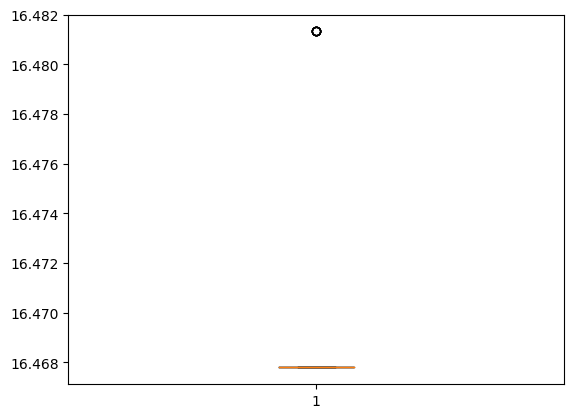
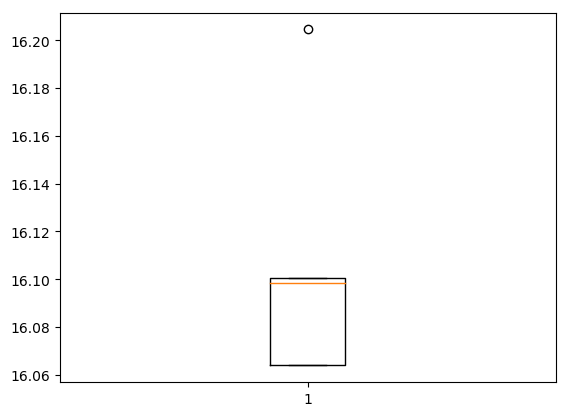
Updated Graphs folder

Changed region(s): [[0.0, 0.0, 0.9859, 0.9688]]

diff --git a/main.py b/main.py
@@ -102,4 +102,94 @@ def run_test(test_size, i):
         plt.close()
 
 
-run_test(100, 1)
+def run_all(test_size):
+    # Get the directory where the file is located
+    dir_path = os.path.dirname(os.path.realpath(__file__))
+    os.chdir(dir_path)  # Change the working directory so we can read the file
+
+    # Total number of colours and list of colours
+    ncolors, colours = read_file('colours.txt')
+
+    # List of colours for testing
+    test_colours = colours[0:test_size]
+
+    '''------------Random Permutation------------'''
+    permutation = random.sample(range(test_size), test_size)
+    print("---------------------Random Permutation {} Colors---------------------".format(test_size))
+    print("Random Permutation {}: {}".format(test_size, str(evaluate(permutation, test_colours))))
+    print("\n")
+    plot_colours(test_colours, permutation, "Random Permutation - {} Colors".format(test_size))
+
+    '''------------Greedy Constuctive Heuristic------------'''
+    greedycols = greedy(test_colours)
+    greedyPerm = getPerm(greedycols, test_colours)
+    greedyPerm = list(map(int, greedyPerm))
+    print("---------------------Greedy Constructive Heuristic {} Colors---------------------".format(test_size))
+    print("Greedy Constructive Heuristic: {}".format(str(evaluate(greedyPerm, test_colours))))
+    plot_colours(test_colours, greedyPerm, "Greedy Constructive Heuristic - {} Colors".format(test_size))
+
+    '''---------------Single Start Hill Climber---------------'''
+    hill_perm, hill_obj_val, hill_distances, hill_run_time = hill_climbing(990000, test_colours)
+    print("---------------------Hill Climbing {} Colors---------------------".format(test_size))
+    print("Hill climbing: {}".format(hill_obj_val))
+    print("Completed in %.5f seconds" % hill_run_time)
+    plot_colours(test_colours, hill_perm, "Hill Climbing - {} Colors".format(test_size))
+    plt.figure()
+    plt.plot(hill_distances)
+    plt.savefig("Graphs/Hill Climbing ({} Colors).png".format(test_size), bbox_inches="tight")
+    plt.title("Hill Climbing, Num Colors: {}".format(test_size))
+    plt.show(block=False)
+    plt.pause(3)
+    plt.close()
+
+    '''---------------Multi Start Hill Climber---------------'''
+    multi_hill_perm, multi_hill__distances, multi_hill_obj_val, multi_hill_mean, multi_hill_median, multi_hill_std, multi_hill_run_time = multi_hill_climb(test_colours, 30, 990000)
+    print("---------------------Multi Start Hill Climbing {} Colors---------------------".format(test_size))
+    print("Multi-start hill climbing: {}".format(multi_hill_obj_val))
+    print("Mean: {}".format(multi_hill_mean))
+    print("Median: {}".format(multi_hill_median))
+    print("Standard Deviation: {}".format(multi_hill_std))
+    print("Completed in %.5f seconds" % multi_hill_run_time)
+    plot_colours(test_colours, multi_hill_perm, "Multi-Start Hill Climbing - {} Colors".format(test_size))
+    plt.figure()
+    plt.plot(multi_hill__distances)
+    plt.savefig("Graphs/Multi-Start Hill Climbing ({} Colors).png".format(test_size), bbox_inches="tight")
+    plt.title("Multi-Start Hill Climbing, Num Colors: {}".format(test_size))
+    plt.show(block=False)
+    plt.pause(3)
+    plt.close()
+
+    '''---------------Simulated Annealing---------------'''
+    sa_perm, sa_obj_val, sa_distances, sa_run_time = simulated_annealing(9000, test_colours)
+    print("---------------------Simulated Annealing {} Colors---------------------".format(test_size))
+    print("Simulated Annealing: {}".format(sa_obj_val))
+    print("Completed in %.5f seconds" % sa_run_time)
+    plot_colours(test_colours, sa_perm, "Simulated Annealing - {} Colors".format(test_size))
+    plt.figure()
+    plt.plot(sa_distances)
+    plt.savefig("Graphs/Simulated Annealing ({} Colors).png".format(test_size), bbox_inches="tight")
+    plt.title("Simulated Annealing, Num Colors: {}".format(test_size))
+    plt.show(block=False)
+    plt.pause(5)
+    plt.close()
+
+    '''---------------Multi Start Simulated Annealing---------------'''
+    multi_sa_perm, multi_sa_distances, multi_sa_obj_val, multi_sa_mean, multi_sa_median, multi_sa_std, multi_sa_run_time = multi_simulated_annealing(test_colours, 30, 9000)
+    print("---------------------Multi Start Simulated Annealing {} Colors---------------------".format(test_size))
+    print("Simulated Annealing (Multi-Start): {}".format(multi_sa_obj_val))
+    print("Mean: {}".format(multi_sa_mean))
+    print("Median: {}".format(multi_sa_median))
+    print("Standard Deviation: {}".format(multi_sa_std))
+    print("Completed in %.5f seconds" % multi_sa_run_time)
+    plot_colours(test_colours, multi_sa_perm, "Multi-Start Simulated Annealing - {} Colors".format(test_size))
+    plt.figure()
+    plt.boxplot(multi_sa_distances)
+    plt.savefig("Graphs/Multi-Start Simulated Annealing ({} Colors).png".format(test_size), bbox_inches="tight")
+    plt.title("Multi-Start Simulated Annealing, Num Colors: {}".format(test_size))
+    plt.show(block=False)
+    plt.pause(5)
+    plt.close()
+
+
+# run_test(100, 1)
+run_all(100)
